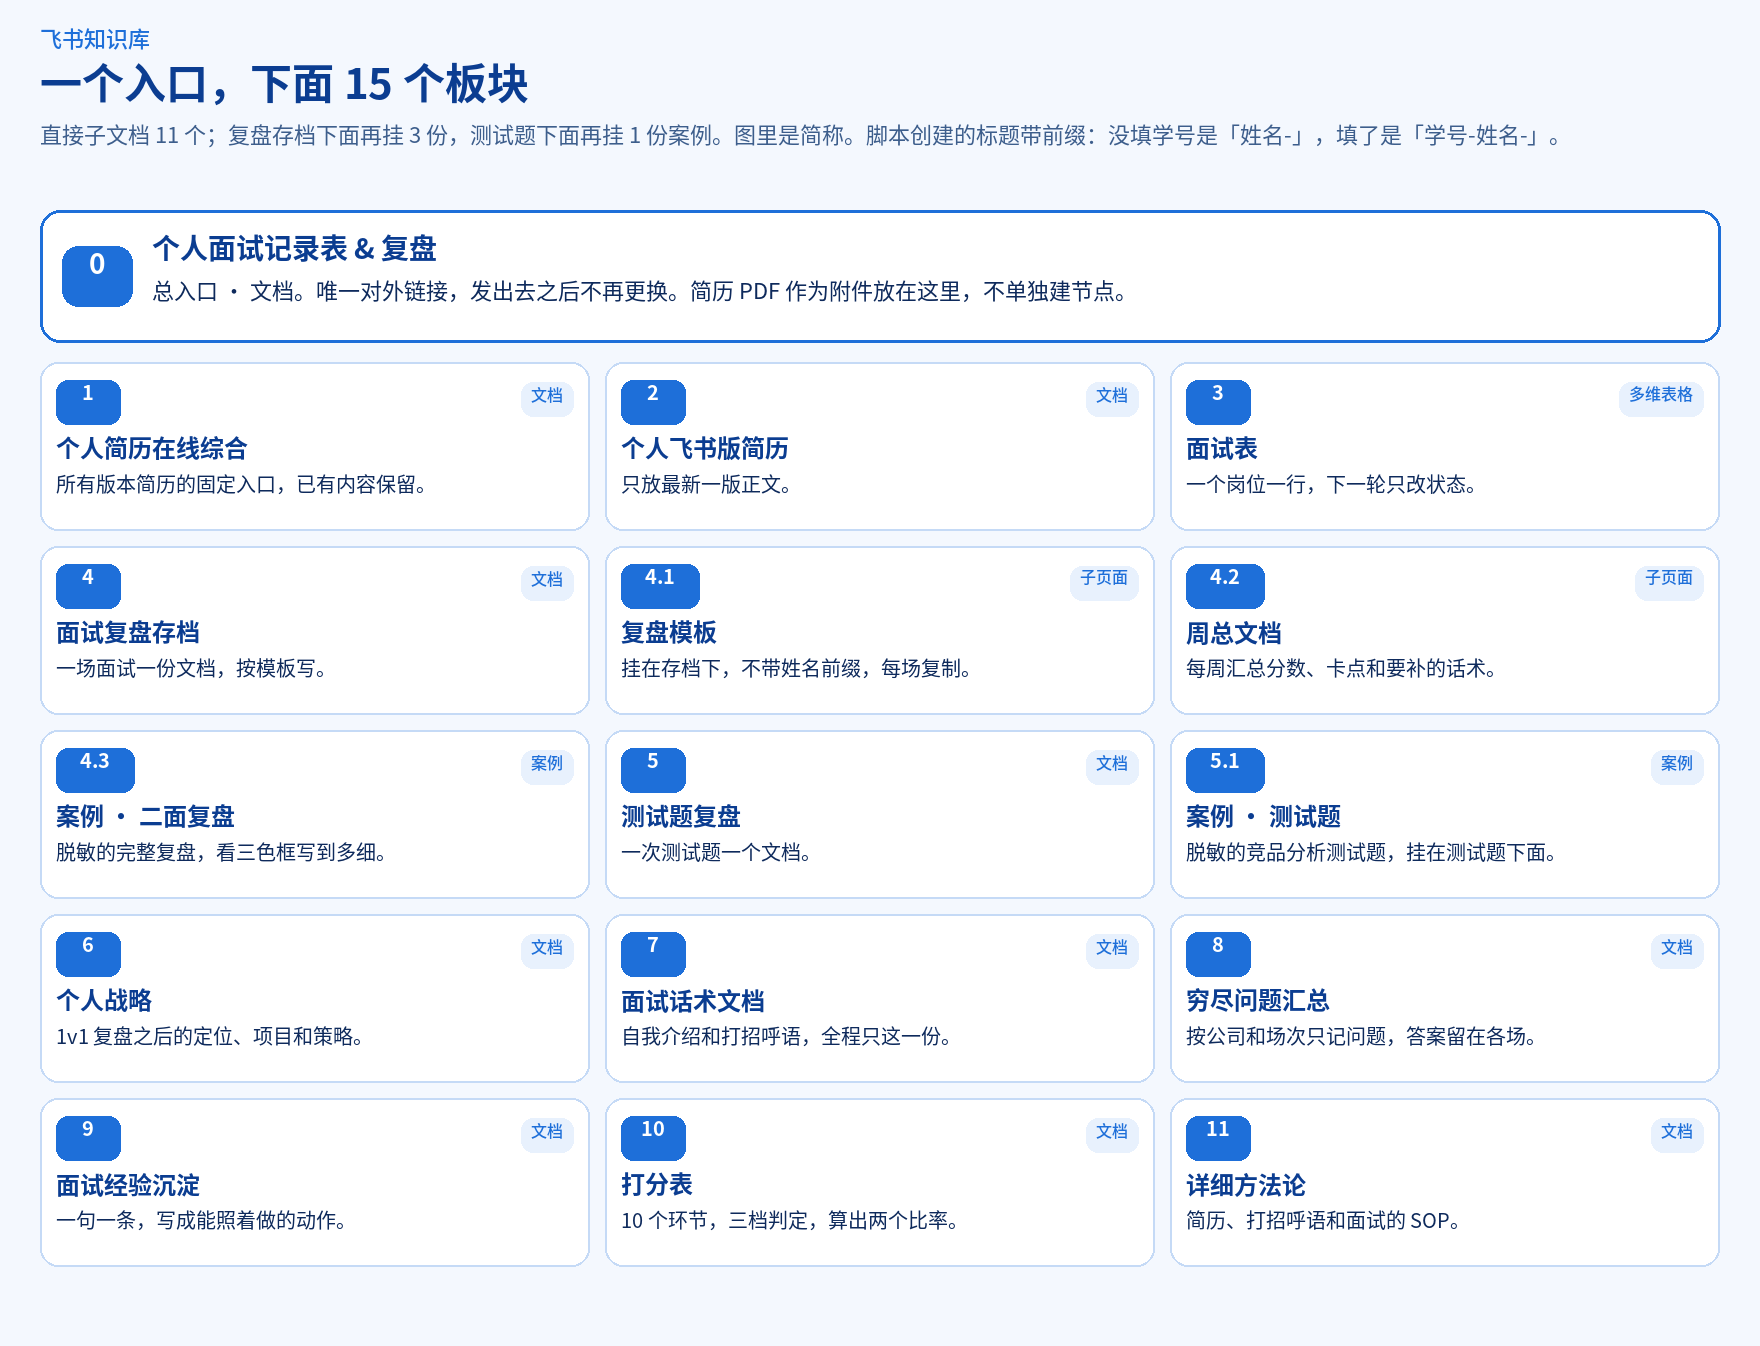
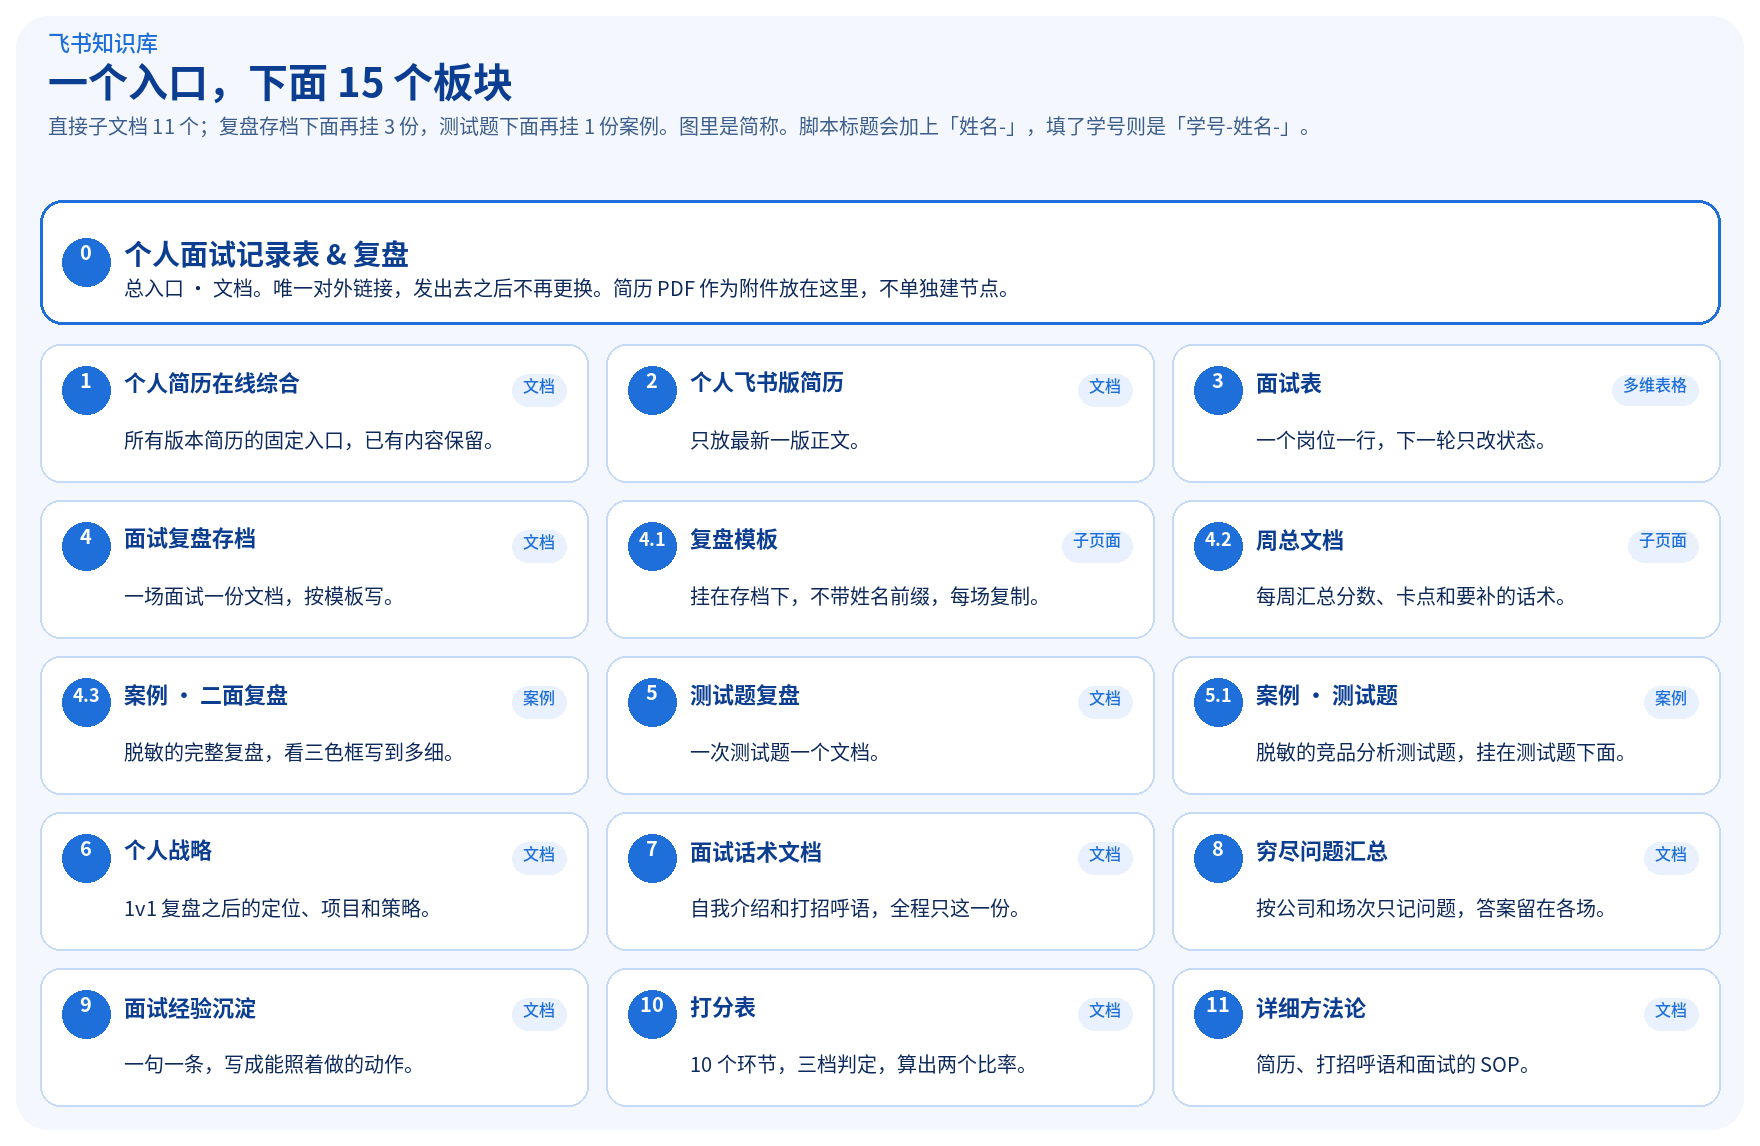
把示意图的序号改成正圆，并去掉鸽小包的外框
卡片一律圆角，序号和标题同一行居中对齐，正文左边对齐到同一位置。吉祥物改回原图，不再套表格和色块。

diff --git a/README.md b/README.md
@@ -32,20 +32,13 @@
 
 </div>
 
-<table>
-<tr>
-<td width="240" align="center" valign="middle">
-<img src="docs/images/mascot-stage/gxb-hi.png" width="220" alt="鸽小包：一只白色、圆得像包子的鸽子，在打招呼">
-</td>
-<td valign="middle">
+<img src="docs/images/mascot/gxb-hi.png" width="180" align="left" alt="鸽小包：一只白色、圆得像包子的鸽子，在打招呼">
 
 <b>鸽小包</b>在这儿。它是这本手册的吉祥物：一只白色、圆得像包子的鸽子。
 
-往下看：这套方法是什么、两条怎么开始的路、十五个飞书板块、一场面试从投递走到复盘、以及绿红黄三色框什么时候用。
+往下看：这套方法是什么、两条怎么开始的路、十五个飞书板块、一场面试从投递走到复盘，以及绿红黄三色框什么时候用。
 
-</td>
-</tr>
-</table>
+<br clear="left">
 
 <img src="docs/images/divider.png" width="880" alt="">
 
@@ -85,18 +78,11 @@
 
 ## 快速开始
 
-<table>
-<tr>
-<td width="180" align="center" valign="middle">
-<img src="docs/images/mascot-stage/gxb-yessir.png" width="160" alt="鸽小包：好的，按这个开始">
-</td>
-<td valign="middle">
+<img src="docs/images/mascot/gxb-yessir.png" width="120" align="left" alt="鸽小包：好的，按这个开始">
 
 先把仓库放到本机，后面的命令都在仓库根目录执行。两条路线挑一条。路线 ① 不装任何东西；路线 ② 给还想让助手往飞书里写的人。
 
-</td>
-</tr>
-</table>
+<br clear="left">
 
 ```bash
 git clone https://github.com/CageEcho/howtointerviewbetter.git
@@ -149,20 +135,13 @@ cd howtointerviewbetter
 
 ## 安装 Skill
 
-<table>
-<tr>
-<td width="220" align="center" valign="middle">
-<img src="docs/images/mascot-stage/gxb-heart-eyes.png" width="200" alt="鸽小包：心心眼，准备按手册写复盘">
-</td>
-<td valign="middle">
+<img src="docs/images/mascot/gxb-heart-eyes.png" width="180" align="left" alt="鸽小包：心心眼，准备按手册写复盘">
 
 <a href="skills/interview-review/README.md">让 AI 照书做复盘（skill）</a>
 
 装上之后，把转写链接和逐字稿交给它。它按手册写复盘、打分，并列出要回写的三处。第一次用，对它说「帮我建面试复盘飞书结构」。
 
-</td>
-</tr>
-</table>
+<br clear="left">
 
 <img src="docs/images/skill-install.png" alt="Skill 安装位置：Claude Code 放在 .claude/skills，Codex 放在 .agents/skills，其他助手放在各自的 skills 目录或把 SKILL.md 贴进对话。要复制整份 interview-review 目录。" width="880">
 
@@ -534,18 +513,11 @@ flowchart LR
 
 ## 常见问题
 
-<table>
-<tr>
-<td width="160" align="center" valign="top">
-<img src="docs/images/mascot-stage/gxb-sleep.png" width="140" alt="鸽小包睡着了。答案都在下面，不用再问第二遍">
-</td>
-<td valign="top">
+<img src="docs/images/mascot/gxb-sleep.png" width="120" align="left" alt="鸽小包睡着了。答案都在下面，不用再问第二遍">
 
 先看这几条。脚本报错的对照表在 <a href="skills/interview-review/feishu-app-setup.md#三常见报错对照">常见报错对照</a>。
 
-</td>
-</tr>
-</table>
+<br clear="left">
 
 - 想零配置拿到结构：用「快速开始 · 路线 ①」复制公开案例。脚本报错先查 [常见报错对照](skills/interview-review/feishu-app-setup.md#三常见报错对照)。
 
@@ -618,18 +590,11 @@ flowchart LR
 
 ## 赞赏
 
-<table>
-<tr>
-<td width="200" align="center" valign="middle">
-<img src="docs/images/mascot-stage/gxb-offer.png" width="180" alt="鸽小包抱着一只钱袋">
-</td>
-<td valign="middle">
+<img src="docs/images/mascot/gxb-offer.png" width="180" align="left" alt="鸽小包抱着一只钱袋">
 
 如果这套复盘方法帮你拿到了面试或 offer，欢迎扫码请我喝杯咖啡，所有内容永久免费。
 
-</td>
-</tr>
-</table>
+<br clear="left">
 
 <img src="docs/images/reward-qrcode.jpg" width="260" alt="赞赏码">
 
@@ -637,15 +602,8 @@ flowchart LR
 
 📮 zsysabre@163.com
 
-<table>
-<tr>
-<td width="160" align="center">
-<img src="docs/images/mascot-stage/gxb-big-heart.png" width="140" alt="鸽小包抱着一颗大心">
-</td>
-<td valign="middle">
+<img src="docs/images/mascot/gxb-big-heart.png" width="120" align="left" alt="鸽小包抱着一颗大心">
 
 看到这儿就可以去写下一场了。挑一两条先用起来就算数。
 
-</td>
-</tr>
-</table>
+<br clear="left">
